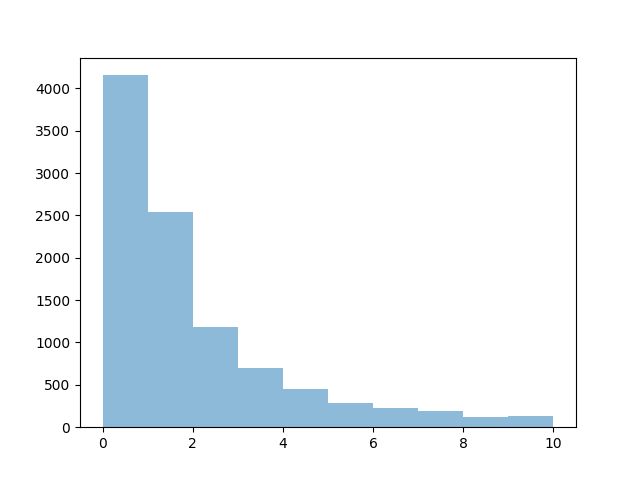
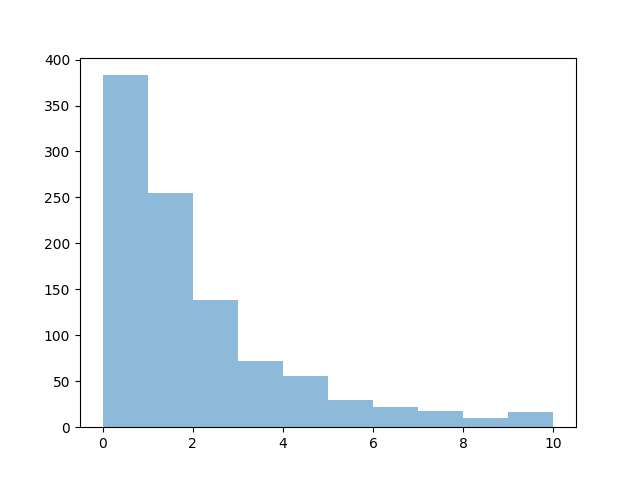
fixed power law T_target, added next steps notes

diff --git a/tests.py b/tests.py
@@ -47,7 +47,8 @@ def power_law():
     scale = 100
     u_max = np.random.pareto(10, N) * scale + 1
     noise = np.random.normal(loc=1.0, scale=0.05, size=N)
-    T_target = (L / u_max) * noise
+    T_target = u_max / np.percentile(u_max, 99) * L * noise 
+    # TODO: skew the distribution
     for i in range(N):
         T_target[i] = max(0, min(L, int(T_target[i])))
     return N, K, L, T_e, u_max, T_target
